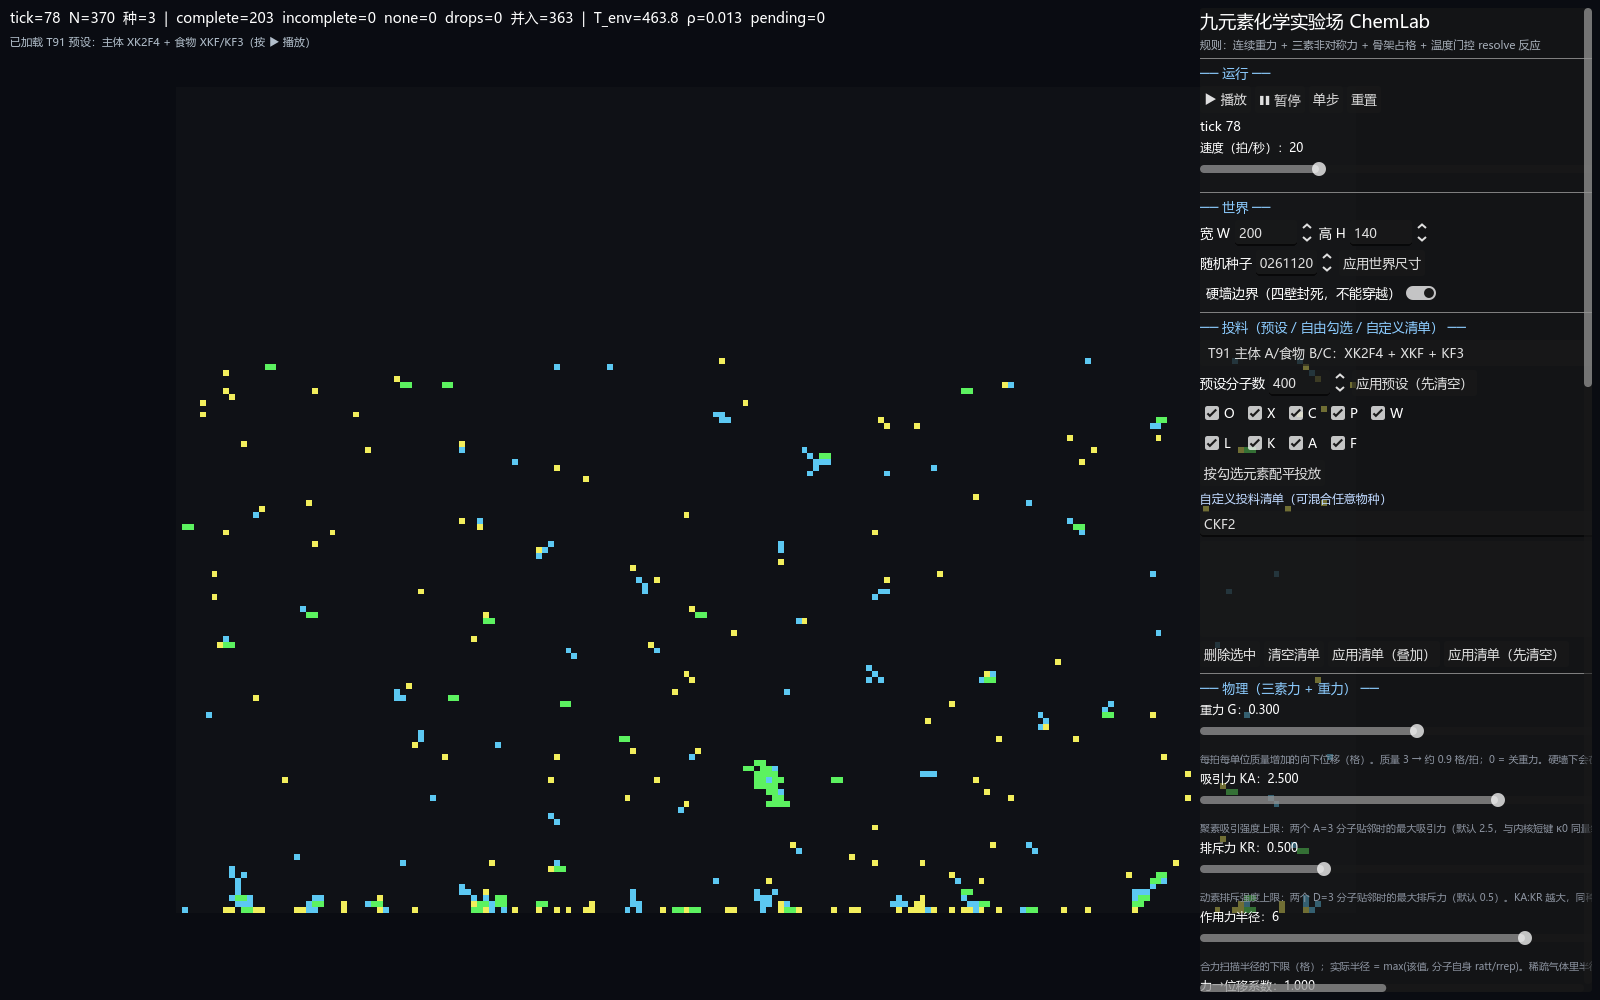
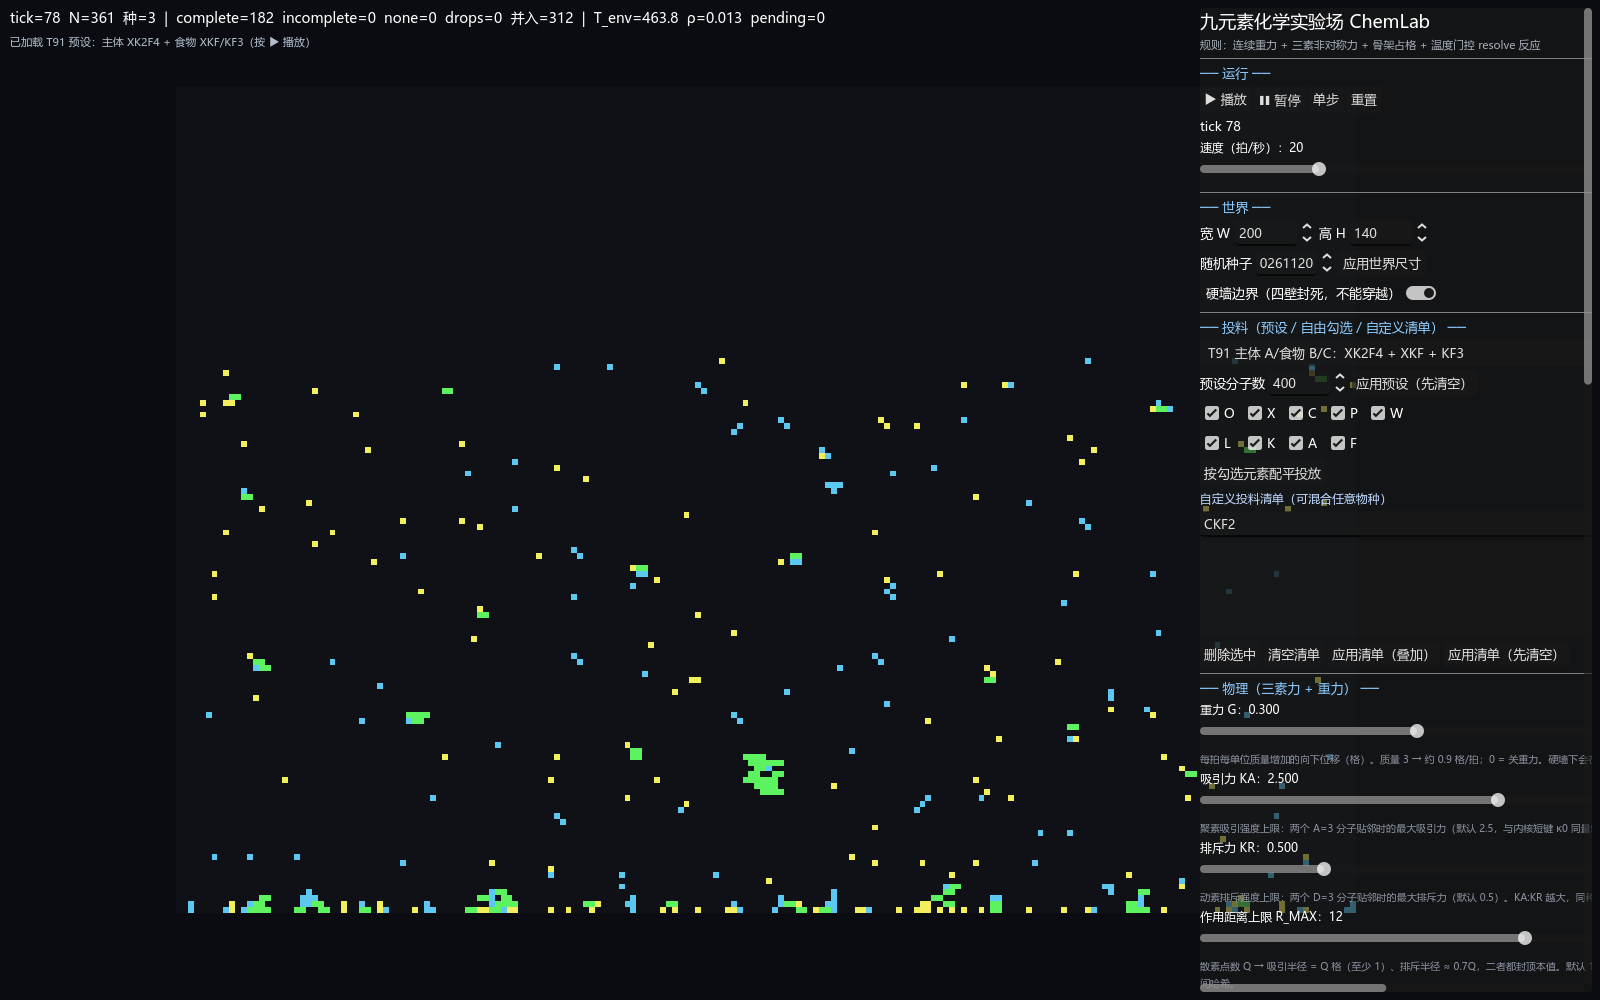
ChemLab: 线性作用半径（R_att=Q, R_rep=0.7Q, 上限 R_MAX）+ 空间哈希加速——400 分子 22.4ms/拍（原 30.9），零重力 11.5ms；文档/预览同步

diff --git a/godot/chem_lab/docs/CHEMLAB_PARAMS.md b/godot/chem_lab/docs/CHEMLAB_PARAMS.md
@@ -209,3 +209,15 @@ resolve → complete / incomplete / none
   或其他分子挡住。关掉它则回到旧的"逐分子下落"行为（`lock_r=1` 时会悬空）。
 - 测试：headless 自检加 `--lock1` 可把 `lock_r` 设为 1；加 `--no-rigid` 关闭刚体下落。
   240 拍后对比 `rows: mean=… high(…)=…`：刚体开时悬浮分子明显更少。
+
+## 附：2026-11-23 更新 —— 线性作用半径 + 空间哈希
+
+- 删除旧的「作用力半径 force_r」参数；现在只有一个可调的「作用距离上限 R_MAX」（参数 `r_cap`，默认 12，范围 2~24）。
+- 每个分子的作用半径由其散素点数 Q 线性决定：
+  - `Q = 3·n_K + 2·n_A + n_F`
+  - 吸引半径 `R_att = clamp(Q, 1, R_MAX)`
+  - 排斥半径 `R_rep = clamp(round(0.7·Q), 1, R_MAX)`
+- 加速度衰减：`decay(d,R) = 1 (d<=1)；(R+1-d)/R (1<d<=R)；0 (d>R)`，d 为切比雪夫距离。
+- 空间哈希：桶边长 = R_MAX，每拍重建一次；每个分子只检查周围 3×3 个桶内的候选。复杂度从 O(N²) 降到 O(N × 每桶分子数)。
+- 性能（240 拍、T91 预设、约 400 分子、headless 无渲染）：R_MAX=12 → 约 22.4 ms/拍；R_MAX=20 → 24.9；R_MAX=24 → 25.6；零重力 → 11.5。
+- 注意：R_MAX 越大，长程吸引越强，整个世界的分子可能被拉成一个巨团；默认 12 格约为世界宽（200 格）的 6%。

diff --git a/godot/chem_lab/README.md b/godot/chem_lab/README.md
@@ -151,3 +151,9 @@ godot/chem_lab/
   scripts/chart.gd        n/种数/T_env 曲线
   preview.png             运行截图
 ```
+
+## 更新（2026-11-23）
+
+- 作用半径不再是一个固定值，而是由散素点数 Q 线性给出（吸引 = Q 格，排斥 = 0.7Q 格），只保留一个可调上限 R_MAX（默认 12）。
+- 力场用空间哈希加速（桶边长 = R_MAX，每拍重建，检查 3×3 桶），400 分子时约 22 ms/拍（零重力约 11.5 ms/拍）。
+- 面板「物理」区的「作用力半径」已改为「作用距离上限 R_MAX」。
